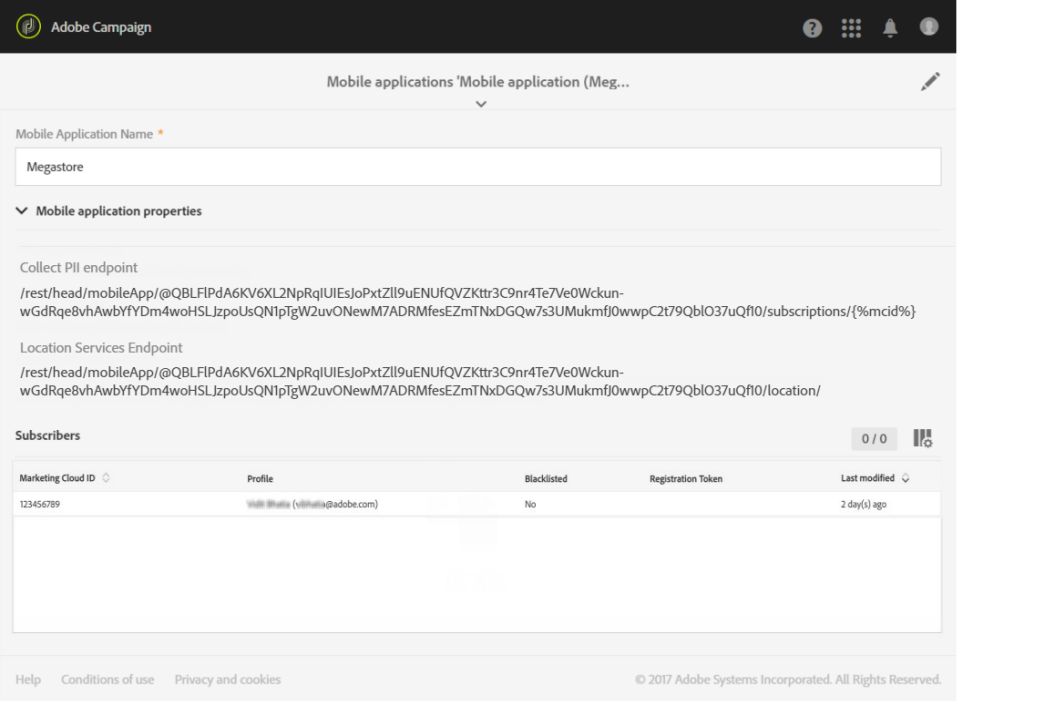
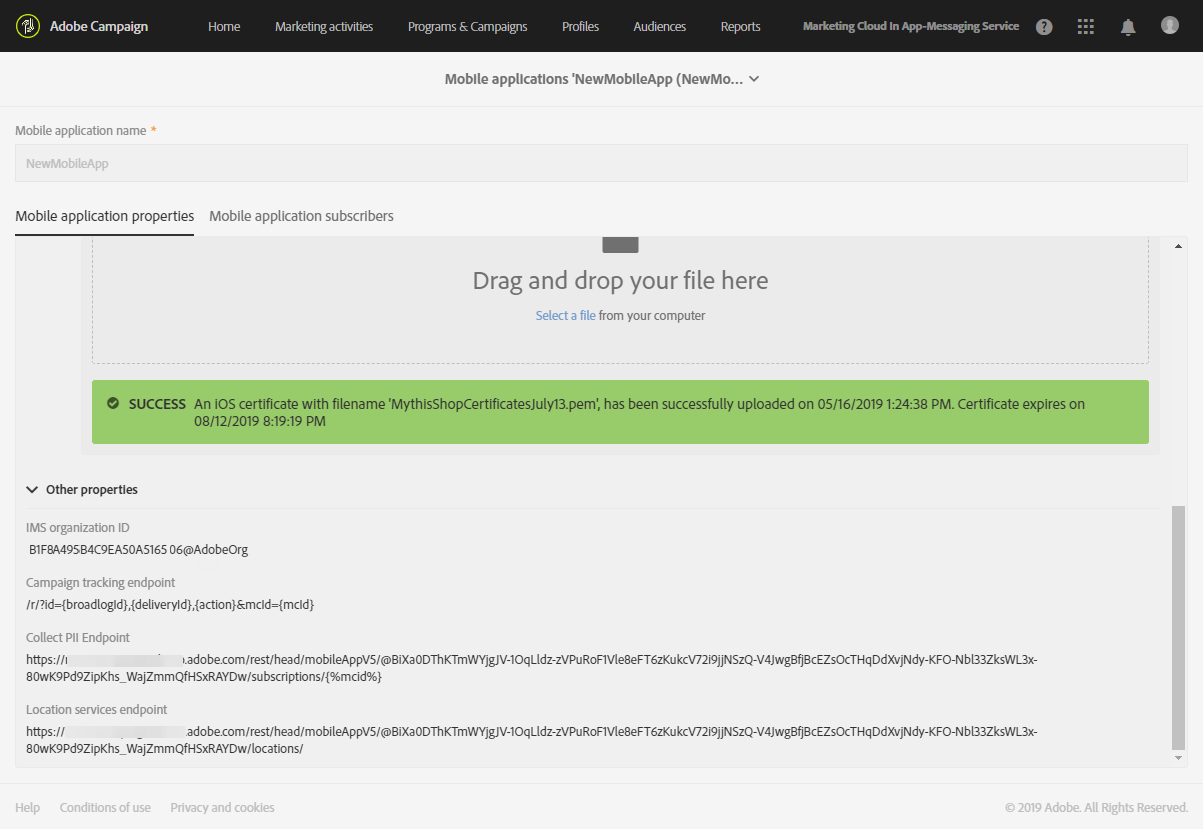
Update POI integration

diff --git a/help/integrating/using/configuring-campaign-points-of-interest-data-integration.md b/help/integrating/using/configuring-campaign-points-of-interest-data-integration.md
@@ -18,6 +18,27 @@ snippet: y
 
 # Configuring Campaign-Points of Interest data integration{#configuring-campaign-points-of-interest-data-integration}
 
+## Configuring Campaign-Points of Interest data integration with Adobe Experience Platform SDKs {#configuring-campaign-poi-aep-sdk}
+
+>[!NOTE]
+>
+>Your mobile application should already be configured in Adobe Campaign Standard using Adobe Experience Platform SDK. For the detailed steps, refer to this [page](https://helpx.adobe.com/campaign/kb/configuring-app-sdk.html).
+
+The mobile applications used to collect location data must be configured by an **administrator** in the Adobe Campaign interface.
+
+To be able to use Adobe Experience Platform Location Services with mobile applications configured with Adobe Experience Platform SDK, you need to:
+
+1. Add the **[!UICONTROL Places]** and **[!UICONTROL Places Monitor]** extensions to your mobile app configuration in Adobe Experience Platform Launch. Set up your mobile application in Adobe Campaign. See [Install the Places extension in Adobe Experience Platform Launch](https://placesdocs.com/places-services-by-adobe-documentation/configure-places-in-the-sdk/places-extension#install-the-places-extension-in-adobe-experience-platform-launch) and [Install the Places Monitor extension in Experience Platform Launch](https://placesdocs.com/places-services-by-adobe-documentation/configure-places-in-the-sdk/places-monitor-extension/using-the-places-monitor-extension).
+
+1. Once your extensions are set up, create data elements within **[!UICONTROL Adobe Experience Platform Launch]** to retrieve data from these extensions.
+
+1. Then, in **[!UICONTROL Adobe Experience Platform Launch]**, you need to create rules to support mobile use cases between Point of Interests and Adobe Campaign.  
+This rule will be triggered when a user enters a geo-fenced **[!UICONTROL Point of Interest]**. Refer to this [page](https://helpx.adobe.com/campaign/kb/configuring-app-sdk.html#Locationpostback) to create your rule.
+
+1. Define your **[!UICONTROL Points of Interest]** in Places. See [Create a Point of Interest](https://placesdocs.com/places-services-by-adobe-documentation/places-database-management-1/managing-pois-in-the-places-ui#create-a-poi).
+
+1. Make sure you access the mobile application and the collected location data in Adobe Campaign. See [Accessing mobile apps used to collect location data](../../integrating/using/configuring-campaign-points-of-interest-data-integration.md#accessing-mobile-apps-used-to-collect-location-data) and [Accessing collected location data](../../integrating/using/configuring-campaign-points-of-interest-data-integration.md#accessing-collected-location-data).
+
 ## Configuring Campaign-Points of Interest data integration using SDK V4 {#configuring-campaign-poi-sdkv4}
 
 The mobile applications used to collect location data must be configured by an **administrator** in the Adobe Campaign interface.
@@ -173,26 +194,6 @@ A specific custom resource enables you to define the data that you want to colle
 
 This step is described in the [Configuring a mobile application using SDK V4](https://helpx.adobe.com/campaign/kb/configuring-app-sdkv4.html) page.
 
-## Configuring Campaign-Points of Interest data integration with Adobe Experience Platform SDKs {#configuring-campaign-poi-aep-sdk}
-
->[!NOTE]
->
->Your mobile application should already be configured in Adobe Campaign Standard using Adobe Experience Platform SDK. For the detailed steps, refer to this [page](https://helpx.adobe.com/campaign/kb/configuring-app-sdk.html).
-
-The mobile applications used to collect location data must be configured by an **administrator** in the Adobe Campaign interface.
-
-To be able to use Adobe Experience Platform Location Services with mobile applications configured with Adobe Experience Platform SDK, you need to:
-
-1. Add the **[!UICONTROL Places]** and **[!UICONTROL Places Monitor]** extensions to your mobile app configuration in Adobe Experience Platform Launch. Set up your mobile application in Adobe Campaign. See [Install the Places extension in Adobe Experience Platform Launch](https://placesdocs.com/places-services-by-adobe-documentation/configure-places-in-the-sdk/places-extension#install-the-places-extension-in-adobe-experience-platform-launch) and [Install the Places Monitor extension in Experience Platform Launch](https://placesdocs.com/places-services-by-adobe-documentation/configure-places-in-the-sdk/places-monitor-extension/using-the-places-monitor-extension).
-
-1. Once your extensions are set up, create data elements within **[!UICONTROL Adobe Experience Platform Launch]** to retrieve data from these extensions.
-
-1. Then, in **[!UICONTROL Adobe Experience Platform Launch]**, you need to create rules to support mobile use cases between Point of Interests and Adobe Campaign.  
-This rule will be triggered when a user enters a geo-fenced **[!UICONTROL Point of Interest]**. Refer to this [page](https://helpx.adobe.com/campaign/kb/configuring-app-sdk.html#Locationpostback) to create your rule.
-
-1. Defining your Points of Interest in Places. See [Create a Point of Interest](https://placesdocs.com/places-services-by-adobe-documentation/places-database-management-1/managing-pois-in-the-places-ui#create-a-poi).
-
-1. Make sure you access the mobile application and the collected location data in Adobe Campaign. See [Accessing mobile apps used to collect location data](../../integrating/using/configuring-campaign-points-of-interest-data-integration.md#accessing-mobile-apps-used-to-collect-location-data) and [Accessing collected location data](../../integrating/using/configuring-campaign-points-of-interest-data-integration.md#accessing-collected-location-data).
 
 ## Accessing mobile apps used to collect location data {#accessing-mobile-apps-used-to-collect-location-data}
 
@@ -204,7 +205,7 @@ To access the successfully created applications in Adobe Campaign:
 
    ![](assets/poi_mobile_app_subscribers.png)
 
-A list of the application's subscribers is also displayed. The subscribers are all of the users who have installed the application on their mobile device. The Adobe Campaign database profiles are identified with a registration token.
+A list of the application's subscribers is also displayed in the **[!UICONTROL Mobile application subscribers]** tab. The subscribers are all of the users who have installed the application on their mobile device. The Adobe Campaign database profiles are identified with a registration token.
 
 ## Accessing collected location data {#accessing-collected-location-data}
 
